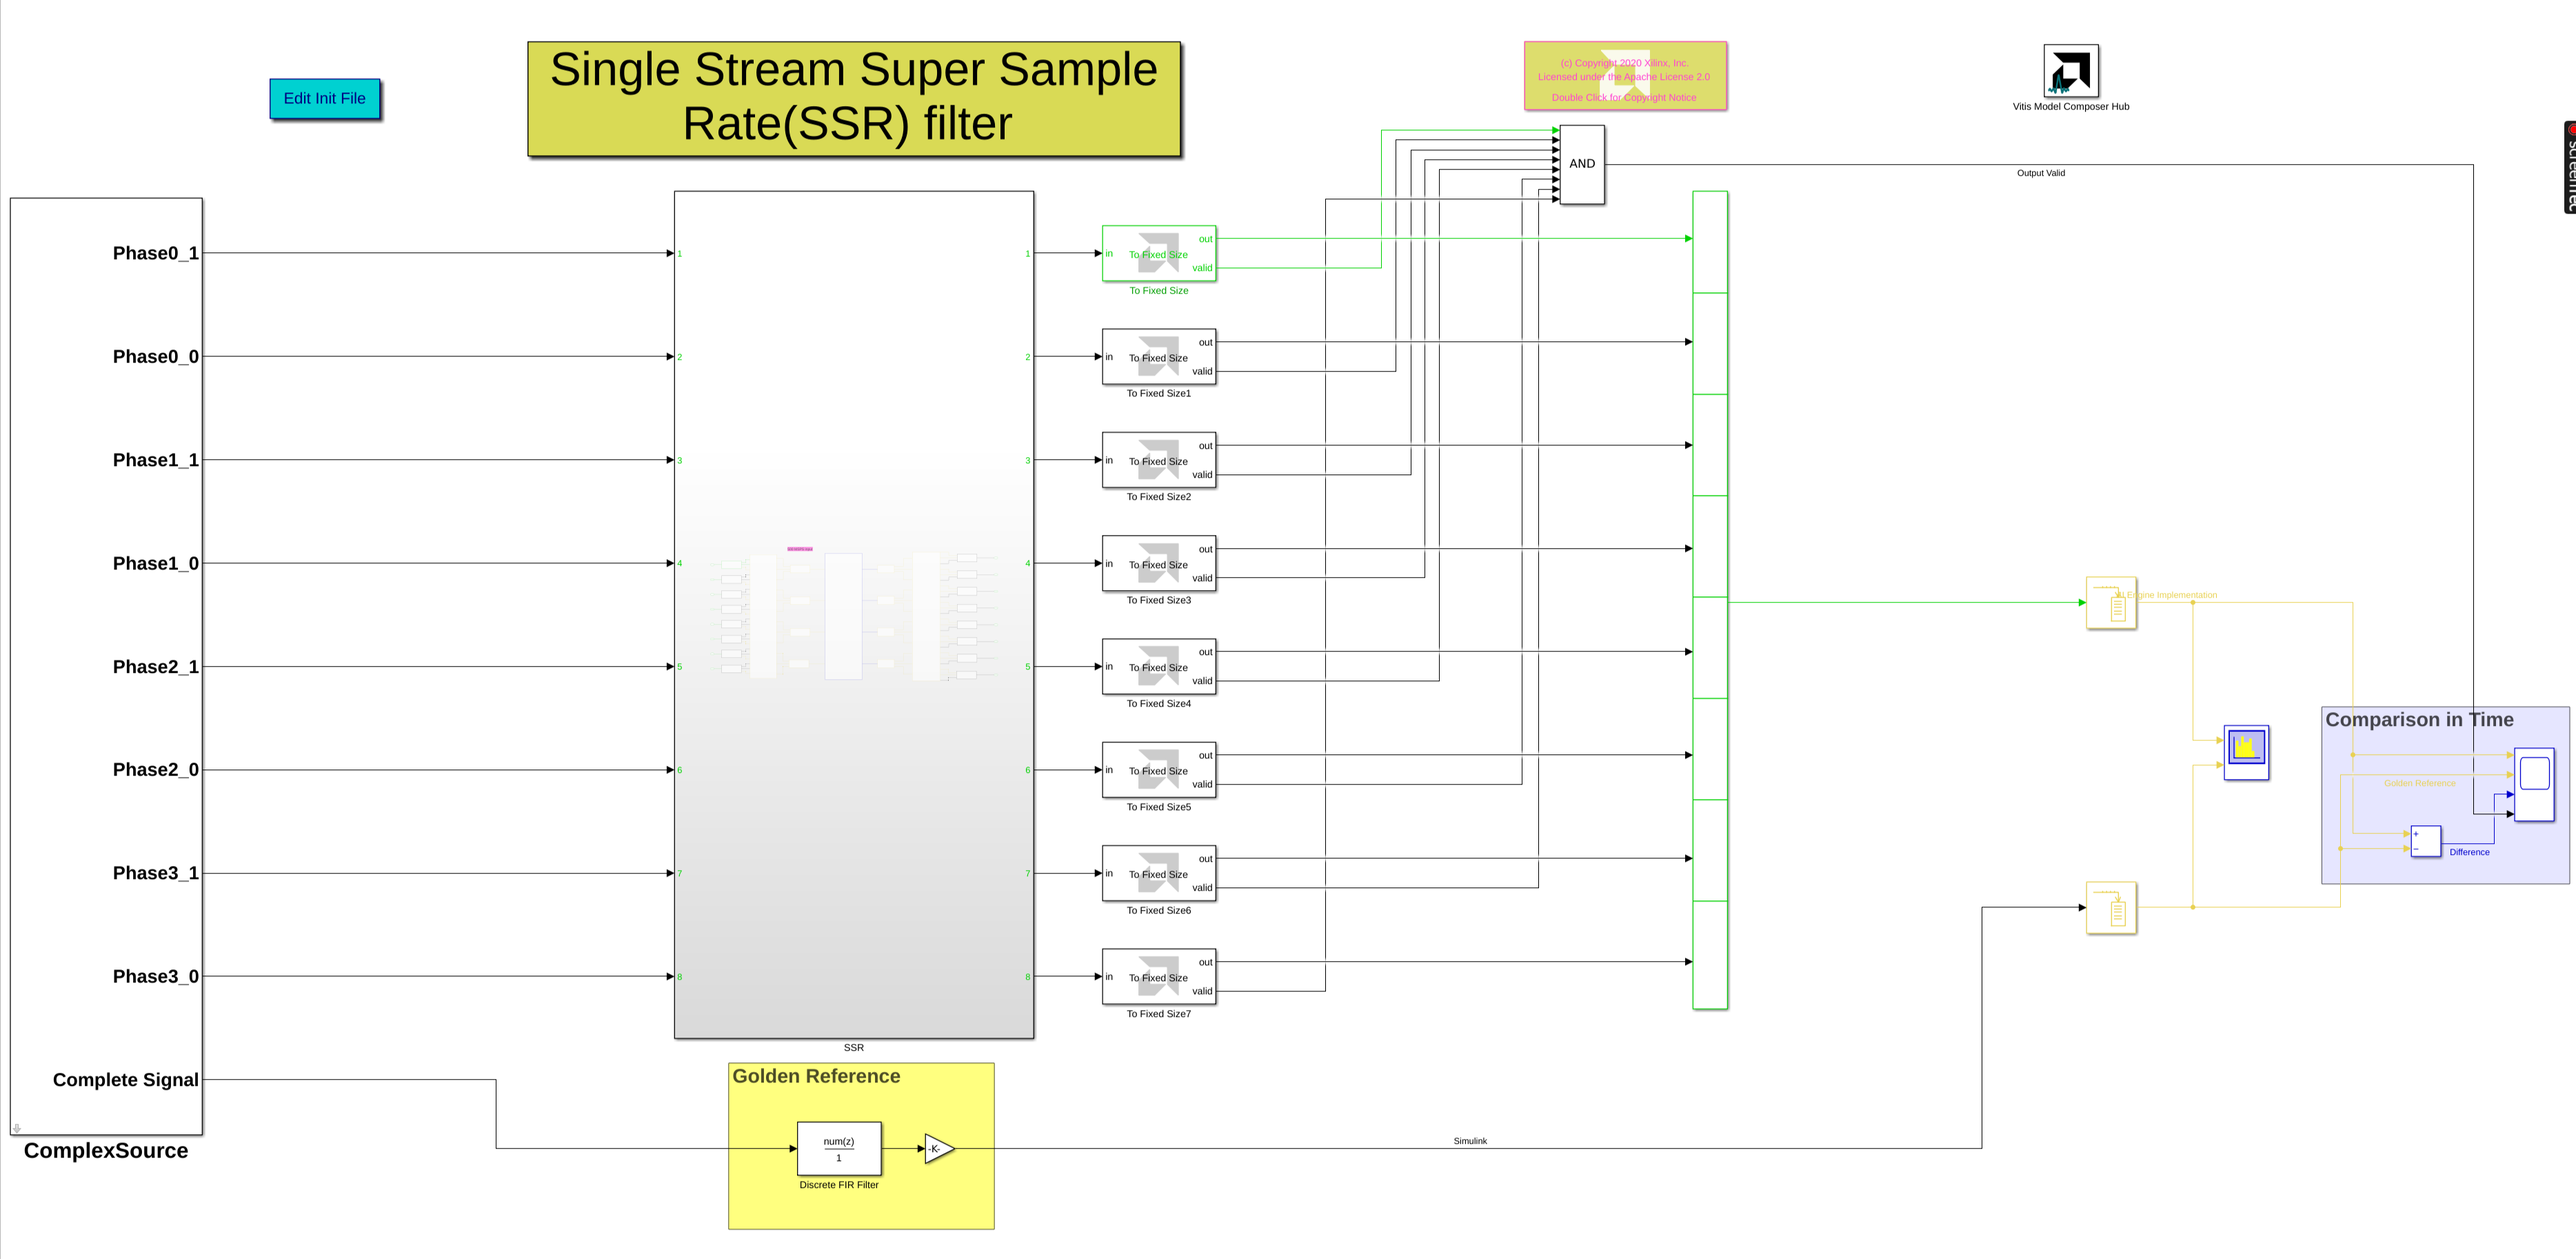
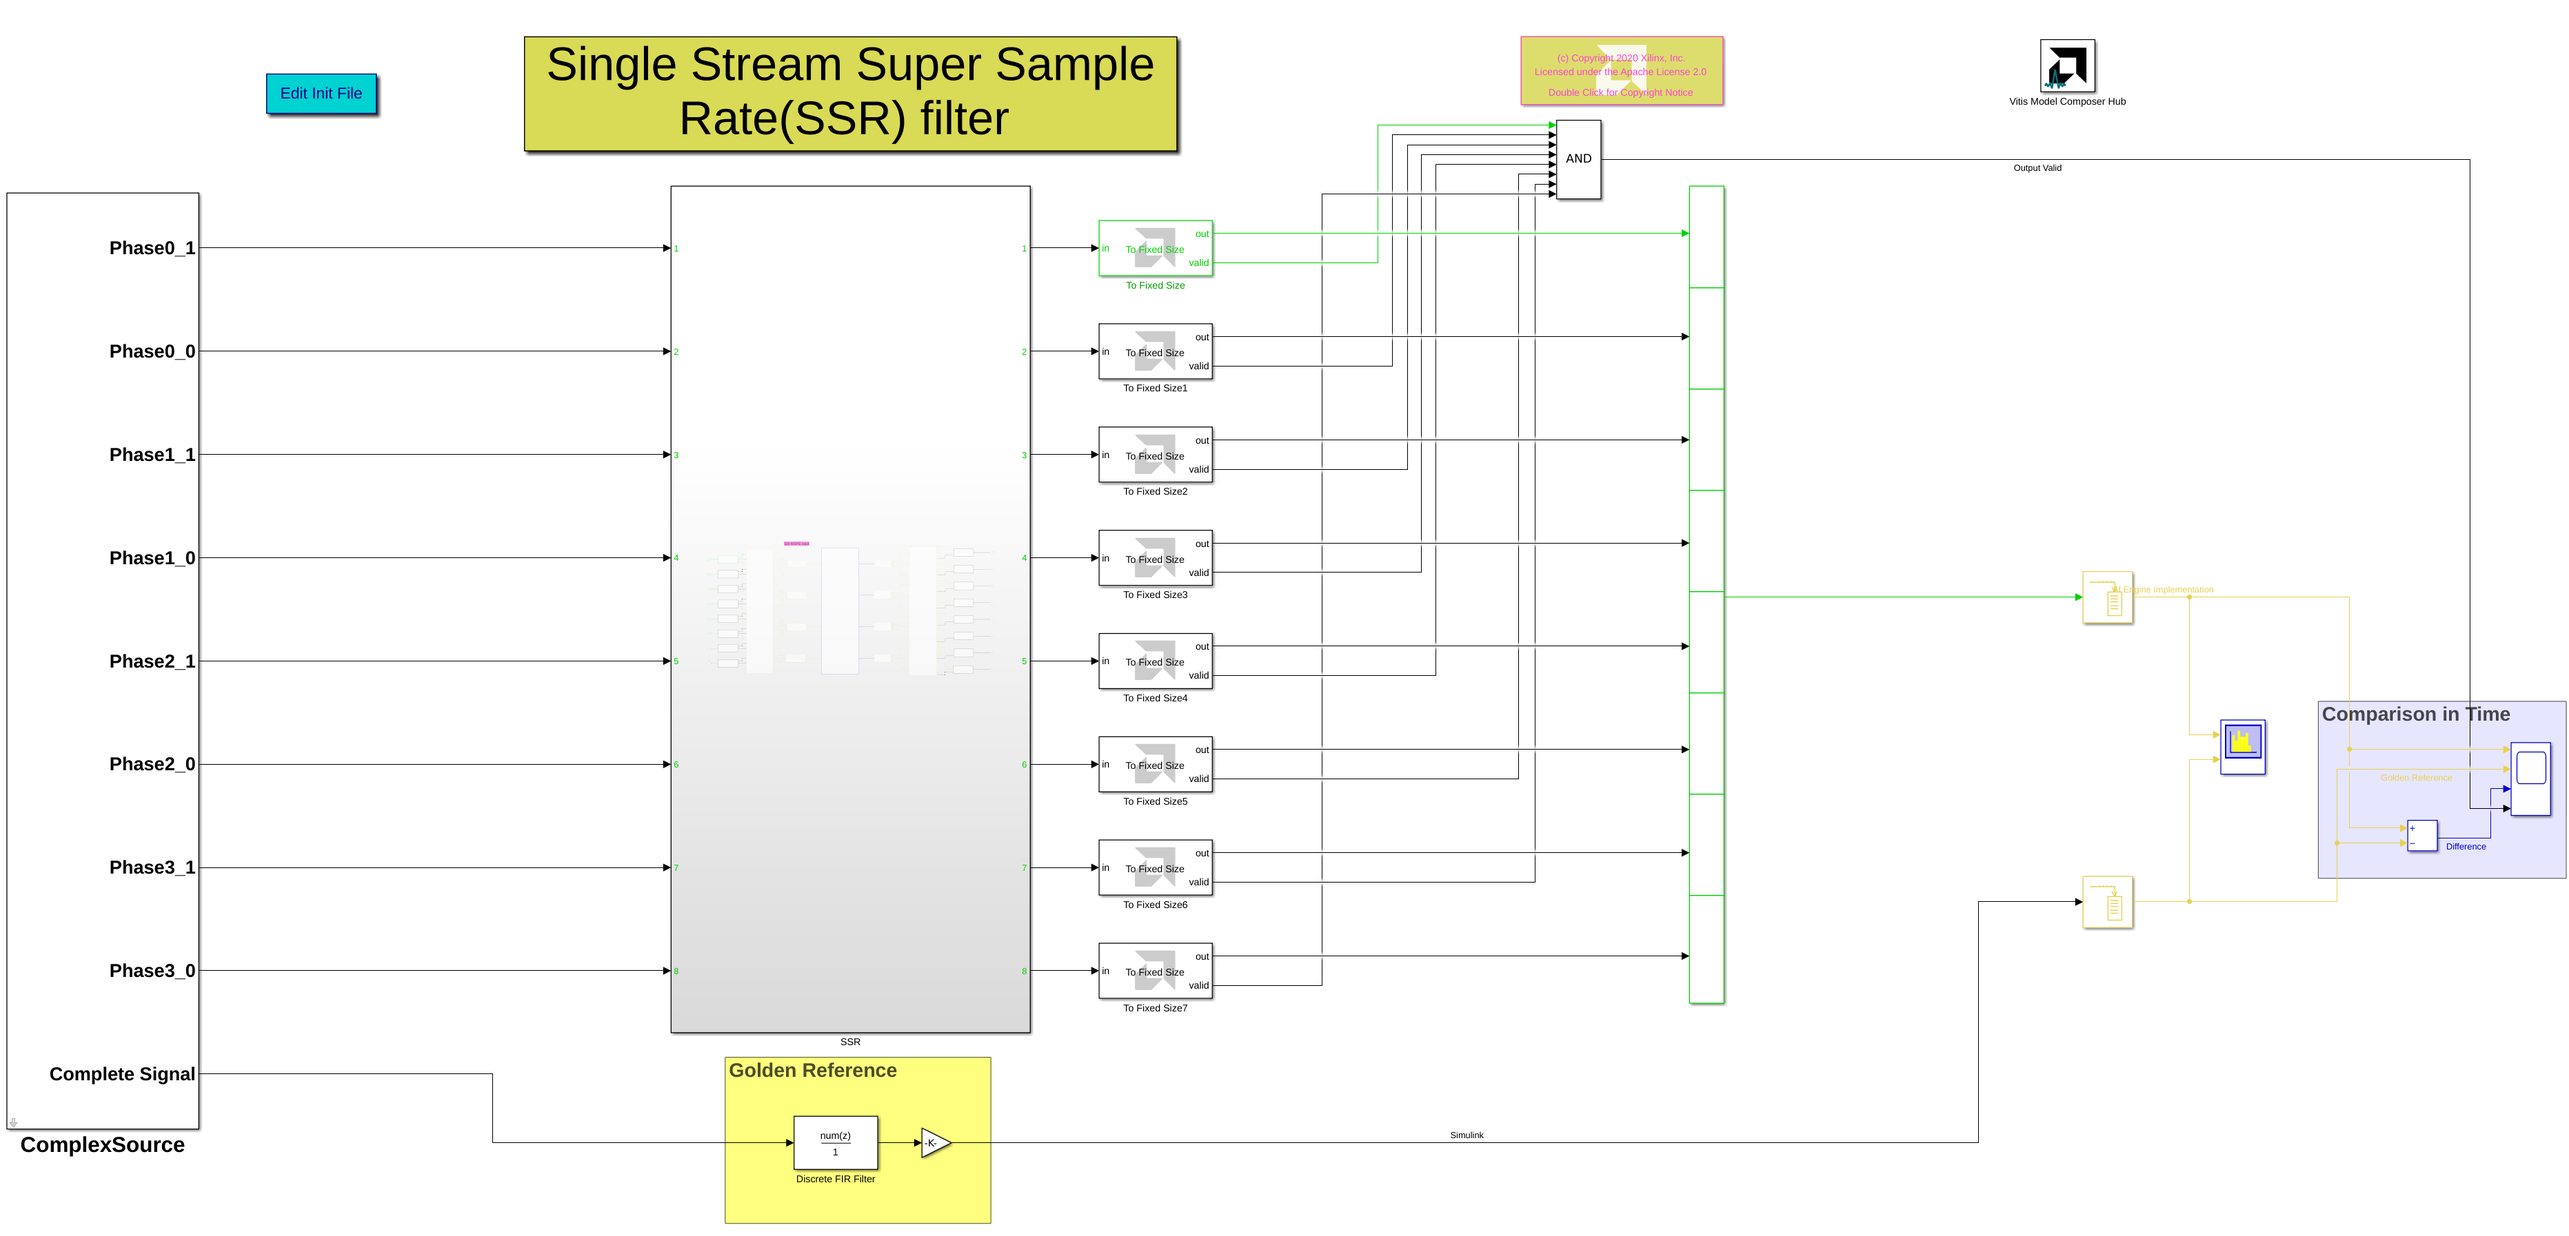
Update the screenshot.

diff --git a/Examples/AIENGINE_plus_PL/AIE_HDL/SingleStreamSSR_FIR_withPL/README.md b/Examples/AIENGINE_plus_PL/AIE_HDL/SingleStreamSSR_FIR_withPL/README.md
@@ -4,7 +4,7 @@ This design showcases a Super Sample Rate FIR filter to process a 4GSPS input st
 For more details on the design of the FIR kernels click [here](https://github.com/Xilinx/Vitis-Tutorials/blob/master/AI_Engine_Development/Design_Tutorials/02-super_sampling_rate_fir/SingleStreamSSR). 
 
 
-![](images/SingleStreamSSR_withPL.PNG)
+<img src="images/SingleStreamSSR_withPL.PNG" alt="Single Stream SSR with PL" width="800">
 
 ------------
 Copyright 2020 Xilinx
